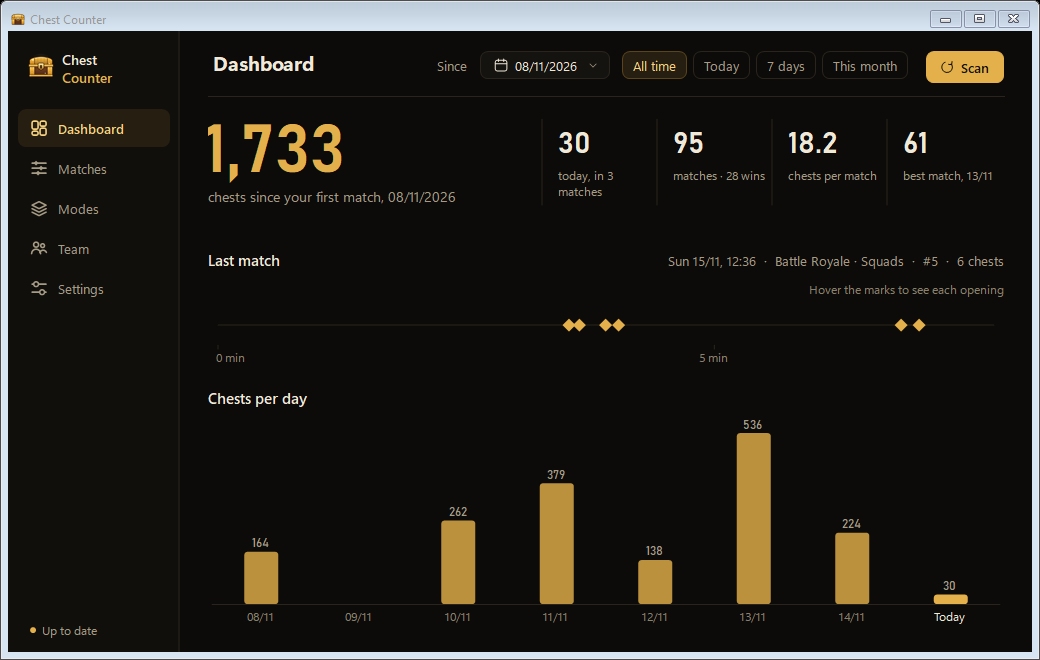
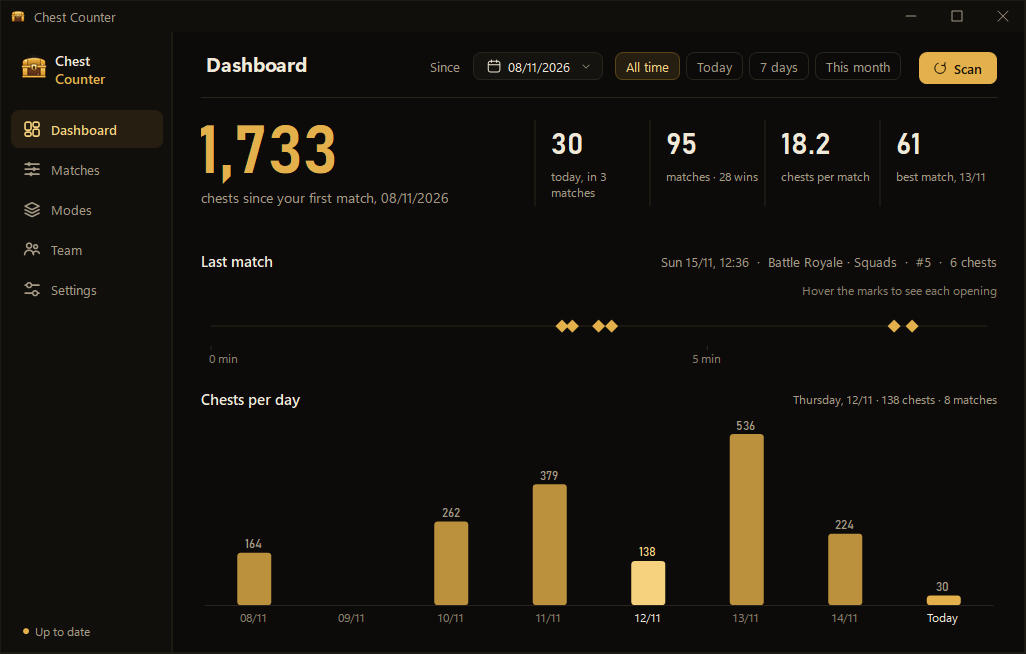
Screenshots: dark window frame instead of the classic light border
DrawToBitmap paints the classic (light) non-client frame. Captures now use
the client area and draw the dark title bar the app requests from Windows.

diff --git a/src/ContadorBaus/MainForm.cs b/src/ContadorBaus/MainForm.cs
@@ -289,16 +289,14 @@ internal sealed class MainForm : Form
                 {
                     ShowPage(i);
                     await Task.Delay(900);
-                    using var bmp = new Bitmap(Width, Height);
-                    DrawToBitmap(bmp, new Rectangle(0, 0, Width, Height));
+                    using var bmp = Snapshot();
                     bmp.Save(Path.Combine(folder, $"{i + 1}-{_pages[i].Title}.png"), System.Drawing.Imaging.ImageFormat.Png);
                     if (_pages[i].AutoScroll)
                     {
                         // Página com deslocamento: captura também o fundo.
                         _pages[i].AutoScrollPosition = new Point(0, 5000);
                         await Task.Delay(400);
-                        using var bottom = new Bitmap(Width, Height);
-                        DrawToBitmap(bottom, new Rectangle(0, 0, Width, Height));
+                        using var bottom = Snapshot();
                         bottom.Save(Path.Combine(folder, $"{i + 1}b-{_pages[i].Title}.png"), System.Drawing.Imaging.ImageFormat.Png);
                     }
                 }
@@ -312,5 +310,36 @@ internal sealed class MainForm : Form
             });
         }
         _state.Scanner.ScanFinished += Capture;
+    }
+
+    /// <summary>
+    /// Imagem da janela como aparece no Windows: o DrawToBitmap desenha a moldura clássica (clara), por isso
+    /// usa-se só a área da app e desenha-se por cima a barra de título escura que a app pede ao Windows.
+    /// </summary>
+    private Bitmap Snapshot()
+    {
+        using var full = new Bitmap(Width, Height);
+        DrawToBitmap(full, new Rectangle(0, 0, Width, Height));
+        var origin = PointToScreen(Point.Empty);
+        var client = new Rectangle(origin.X - Left, origin.Y - Top, ClientSize.Width, ClientSize.Height);
+
+        const int bar = 32;
+        var shot = new Bitmap(client.Width + 2, client.Height + bar + 1);
+        using var g = Graphics.FromImage(shot);
+        Theme.HighQuality(g);
+        g.Clear(Theme.Rail);
+        g.DrawImage(full, new Rectangle(1, bar, client.Width, client.Height), client, GraphicsUnit.Pixel);
+        using (var ico = new Icon(Icon, 16, 16)) g.DrawIcon(ico, 10, (bar - 16) / 2);
+        Theme.Text_(g, Text, Theme.Body, Theme.Muted, new Rectangle(34, 0, 400, bar));
+        // Botões de minimizar, maximizar e fechar, discretos como no tema escuro do Windows.
+        using var pen = new Pen(Theme.Muted, 1);
+        var x = shot.Width - 46 * 3;
+        g.DrawLine(pen, x + 18, bar / 2, x + 28, bar / 2);
+        g.DrawRectangle(pen, x + 46 + 18, bar / 2 - 5, 10, 10);
+        g.DrawLine(pen, x + 92 + 18, bar / 2 - 5, x + 92 + 28, bar / 2 + 5);
+        g.DrawLine(pen, x + 92 + 28, bar / 2 - 5, x + 92 + 18, bar / 2 + 5);
+        using var border = new Pen(Theme.Line);
+        g.DrawRectangle(border, 0, 0, shot.Width - 1, shot.Height - 1);
+        return shot;
     }
 }
